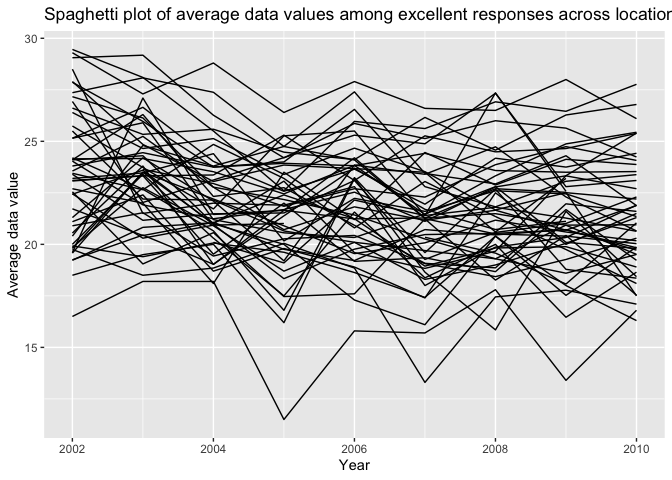
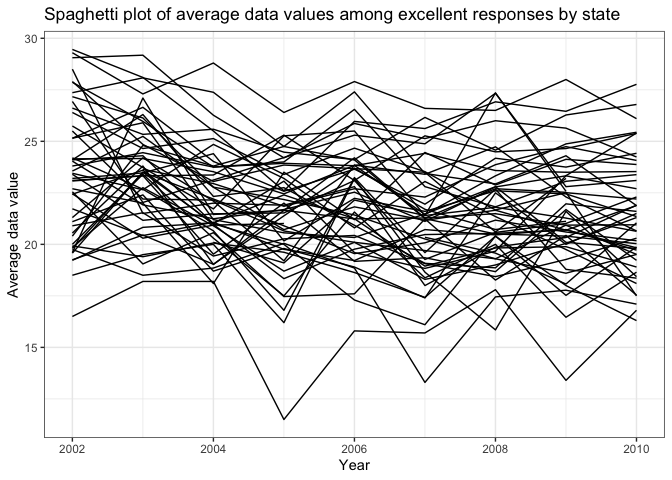
Finished assignment, final commit.

diff --git a/p8105_hw3_jl4443.md b/p8105_hw3_jl4443.md
@@ -1,7 +1,7 @@
 Homework 3
 ================
 Jessica Lavery
-10/10/2019
+Due: 10/14/2019
 
 # Problem 1
 
@@ -797,6 +797,7 @@ instacart %>%
   group_by(aisle, product_name) %>%
   summarize(n_times_ordered = n()) %>%
   group_by(aisle) %>%
+  arrange(aisle, desc(n_times_ordered)) %>% 
   top_n(3, n_times_ordered) %>% 
   kable()
 ```
@@ -841,28 +842,6 @@ baking ingredients
 
 <td style="text-align:left;">
 
-Cane Sugar
-
-</td>
-
-<td style="text-align:right;">
-
-336
-
-</td>
-
-</tr>
-
-<tr>
-
-<td style="text-align:left;">
-
-baking ingredients
-
-</td>
-
-<td style="text-align:left;">
-
 Light Brown Sugar
 
 </td>
@@ -892,6 +871,50 @@ Pure Baking Soda
 <td style="text-align:right;">
 
 387
+
+</td>
+
+</tr>
+
+<tr>
+
+<td style="text-align:left;">
+
+baking ingredients
+
+</td>
+
+<td style="text-align:left;">
+
+Cane Sugar
+
+</td>
+
+<td style="text-align:right;">
+
+336
+
+</td>
+
+</tr>
+
+<tr>
+
+<td style="text-align:left;">
+
+dog food care
+
+</td>
+
+<td style="text-align:left;">
+
+Snack Sticks Chicken & Rice Recipe Dog Treats
+
+</td>
+
+<td style="text-align:right;">
+
+30
 
 </td>
 
@@ -945,28 +968,6 @@ Small Dog Biscuits
 
 <td style="text-align:left;">
 
-dog food care
-
-</td>
-
-<td style="text-align:left;">
-
-Snack Sticks Chicken & Rice Recipe Dog Treats
-
-</td>
-
-<td style="text-align:right;">
-
-30
-
-</td>
-
-</tr>
-
-<tr>
-
-<td style="text-align:left;">
-
 packaged vegetables fruits
 
 </td>
@@ -995,13 +996,13 @@ packaged vegetables fruits
 
 <td style="text-align:left;">
 
-Organic Blueberries
+Organic Raspberries
 
 </td>
 
 <td style="text-align:right;">
 
-4966
+5546
 
 </td>
 
@@ -1017,13 +1018,13 @@ packaged vegetables fruits
 
 <td style="text-align:left;">
 
-Organic Raspberries
+Organic Blueberries
 
 </td>
 
 <td style="text-align:right;">
 
-5546
+4966
 
 </td>
 
@@ -1339,7 +1340,7 @@ ggplot(data = excellent_brfss, aes(x = year, y = avg_data_value, group = state))
   geom_line() +
   labs(x = "Year",
        y = "Average data value",
-       title = "Spaghetti plot of average data values among excellent responses across locations within states")
+       title = "Spaghetti plot of average data values among excellent responses by state")
 ```
 
     ## Warning: Removed 3 rows containing missing values (geom_path).
@@ -1359,7 +1360,7 @@ brfss %>%
   geom_boxplot() + 
   labs(x = "Response",
        y = "Distribution of data value",
-       title = "Distribution of data value by response and year among locations in New York State") + 
+       title = "Distribution of data value by response and year in New York State") + 
   facet_wrap(~ year)
 ```
 
@@ -1377,7 +1378,8 @@ accel <- read_csv("./data/accel_data.csv") %>%
   pivot_longer(cols = starts_with("activity"),
                names_to = "minute",
                names_prefix = "activity_",
-               values_to = "activity_count")
+               values_to = "activity_count") %>% 
+  mutate(minute = as.numeric(minute))
 ```
 
     ## Parsed with column specification:
@@ -1406,13 +1408,21 @@ activity count recorded by the accelerometer. For this patient we have
     minutes to create a total activity variable for each day, and create
     a table showing these totals. Are any trends apparent?
 
-Looking at the total amount of activity per day, no obvious trends are
-apperent.
+<!-- end list -->
 
 ``` r
-accel  %>% 
+accel_by_day <- accel  %>% 
   group_by(day_id) %>% 
-  summarize(total_activity = sum(activity_count)) %>% 
+  summarize(total_activity = sum(activity_count)) 
+```
+
+Looking at the total amount of activity per day either as a table or as
+a figure, no obvious trends are apperent. The total amount of activity
+on a given day ranges from 1440 to 685910, and on average is 384543.4
+(standard deviation 163481.7).
+
+``` r
+accel_by_day %>% 
   kable()
 ```
 
@@ -2003,3 +2013,46 @@ total\_activity
 </tbody>
 
 </table>
+
+``` r
+ggplot(data = accel_by_day, aes(x = day_id, y = total_activity)) +
+  geom_line() +
+  labs(x = "Day of observation",
+       y = "Total activity",
+       title = "Total activity by day of observation") +
+  scale_y_continuous(labels = scales::comma) +
+  scale_x_continuous(breaks = seq(0, 35, 5))
+```
+
+![](p8105_hw3_jl4443_files/figure-gfm/unnamed-chunk-17-1.png)<!-- -->
+
+2.  Accelerometer data allows the inspection activity over the course of
+    the day. Make a single-panel plot that shows the 24-hour activity
+    time courses for each day and use color to indicate day of the week.
+    Describe in words any patterns or conclusions you can make based on
+    this graph.
+
+Across all days of the week there is little activity from midnight to
+4am, then activity increases until around noon and plateaus until about
+7pm, where there is generally an increase in activity at 8pm, and then a
+steady decline until midnight. On Sundays, there is increased activity
+just before noon, and on Fridays there is increased activity between
+8-9pm compared to other days of the week.
+
+``` r
+accel_hourly <- accel %>% 
+  mutate(hour = minute %/% 60) %>% 
+  group_by(day, hour) %>% 
+  summarize(total_activity = mean(activity_count))
+
+ggplot(data = accel_hourly, aes(x = hour, y = total_activity, color = day)) +
+  geom_line() +
+  labs(x = "Time of day",
+       y = "Total activity",
+       color = "Day of week",
+       title = "Average activity recorded by day of observation") +
+  scale_y_continuous(breaks = seq(0, 1100, 200), limits = c(0, 1000)) +
+  scale_x_continuous(breaks = seq(0, 24, 4), labels = c("12am", "4am", "8am", "12pm", "4pm", "8pm", "12am")) 
+```
+
+![](p8105_hw3_jl4443_files/figure-gfm/unnamed-chunk-18-1.png)<!-- -->
